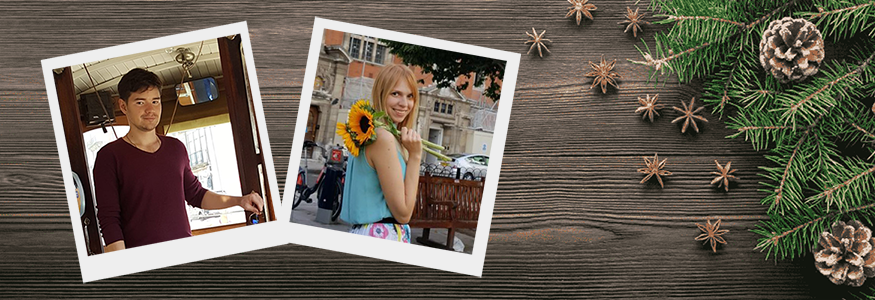
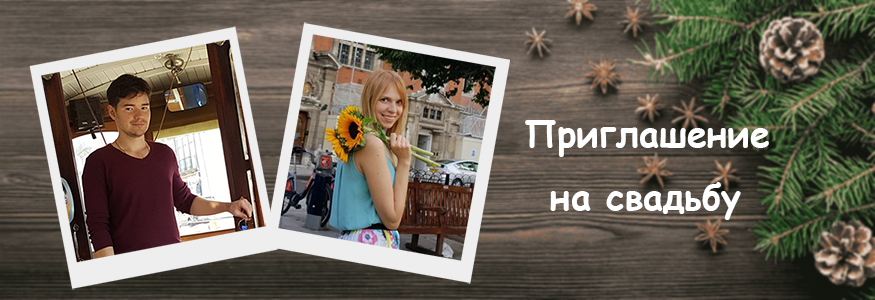
updated invitation and added bugfix for IE

diff --git a/js/custom.js b/js/custom.js
@@ -1,6 +1,10 @@
 window.onload = function() {
   setGuests()
   setCounter()
+
+  if (navigator.appName == 'Microsoft Internet Explorer' ||  !!(navigator.userAgent.match(/Trident/) || navigator.userAgent.match(/rv:11/)) || (typeof $.browser !== "undefined" && $.browser.msie == 1)) {
+    document.getElementsByClassName('second-photos')[0].style.marginTop = '-350px'
+  }
 }
 
 function setGuests() {
